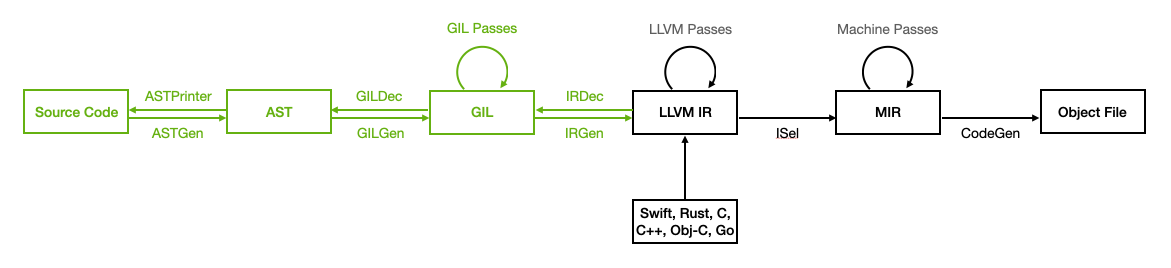
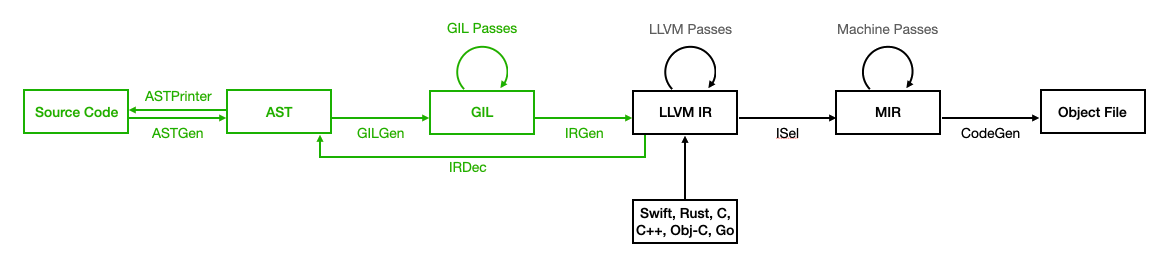
fix: compiler architecture now accurately reflects the current state of Glu

diff --git a/_refs/compiler_architecture.md b/_refs/compiler_architecture.md
@@ -5,11 +5,11 @@ category: The Architecture
 
 The Glu compiler is a multi-stage compiler that compiles Glu source code into an executable file. The compiler is written in C++ and uses the LLVM compiler infrastructure to generate machine code. The compiler consists of several stages, each of which performs a specific task in the compilation process.
 
-The particularity of the Glu compiler is that it is designed to be reversible. This means that the compiler can generate Glu source code from the LLVM IR representation of a program. This feature allows the compiler to perform optimizations on the LLVM IR representation of a program and then generate Glu source code from the optimized IR. This can be useful for debugging and understanding the behavior of the compiler. Most importantly, it allows the compiler to generate human-readable Glu source code from the optimized IR generated by any LLVM-based compiler, such as Clang, Rust, or Swift.
+The particularity of the Glu compiler is that it can import LLVM IR. This means that the compiler can generate a Glu interface from the LLVM IR representation of a program. 
 
 ## Compiler Stages
 
-The Glu compiler has multiple stages, each of which performs a specific task in the compilation process. Each stage also has a corresponding reverse stage that can go backwards in the compilation process. The stages are shown on this diagram:
+The Glu compiler has multiple stages, each of which performs a specific task in the compilation process. The stages are shown on this diagram:
 
 ![Glu Compiler Stages](/assets/img/compiler-stages.png)
 
@@ -29,29 +29,22 @@ The Glu compilation process consists of the following stages:
 
 The LLVM infrastructure is used to optimize and generate machine code from the LLVM IR representation of the program, leveraging the powerful optimization passes and code generation capabilities of LLVM.
 
-The Glu decompilation process is similar to the compilation process but in reverse:
- - **IRDec**: `LLVM IR -> AST`: The IRDec stage generates a GIL representation of the program from the LLVM IR representation.
- - **ASTPrinter**: `AST -> Glu Source Code`: The AST Code Printer stage pretty prints Glu source code from the AST representation of the program.
+The Glu import process allows importing foreign functions and types from different kinds of input files:
+ - **IRDec**: `LLVM IR -> AST`: The IRDec stage generates AST nodes for function declarations and types from the LLVM IR representation.
+ - **ClangImporter**: `C Header Files -> AST`: The ClangImporter stage uses Clang tooling to parse C header files and generate AST nodes for function declarations and types.
+ - **ASTPrinter**: `AST -> Glu Source Code`: The AST Code Printer stage pretty prints Glu source code from the AST representation of the program (-print-interface).
 
-The Glu compiler is designed to be modular and extensible, allowing developers to easily add optimization passes to the compilation process. Each stage implemented as a separate C++ library: This design allows developers to experiment with new optimizations and transformations without recompiling the entire compiler.
+The Glu compiler can also automatically call the appropriate compilers to import different supported languages, and link imported functions and types into the final executable during the compilation process. See [Supported File Formats](./supported_files) for more information on supported input formats.
 
-## Debug Information (Planned)
+The Glu compiler is designed to be modular and extensible, allowing developers to easily add optimization passes to the compilation process. Each stage implemented as a separate C++ library.
+
+## Debug Information
 
 The Glu compiler keeps track of debug information throughout the compilation process to provide accurate source-level debugging information in the generated machine code. The compiler generates debug information in the LLVM IR representation of the program, which is used by the LLVM infrastructure to generate debug information in the final machine code. Debug information includes source file names, line numbers, and variable names, allowing developers to debug their programs using debuggers such as LLDB.
 
 We believe that debugging is important, both without and with optimizations. Therefore, the Glu compiler generates debug information by default, even when optimizations are enabled. This allows developers to debug optimized code as accurately as possible.
 
-It is also possible to generate debug information for the Glu Intermediate Language (GIL) representation of the program, using `-ggil`. In that case, temporary GIL files are generated, and the debuggers will step through those files instead of the source files. This can be useful when debugging high-level optimizations that are performed on the GIL representation of the program.
-
-![Glu Compiler Stages diagram when using -ggil](/assets/img/compiler-stages-ggil.png)
-
-It is also possible to generate debug information for decompiled Glu source code, using `-gdec`, which can be a better experience when debugging optimized code. The compiler will go through all compilation stages, then decompile the optimized LLVM IR back to Glu source code, and generate debug information referencing the decompiled source code. This allows stepping through the decompiled source code in the debugger, providing a more natural debugging experience, though the code may not be exactly the same as the original source code.
-
-![Glu Compiler Stages diagram when using -gdec](/assets/img/compiler-stages-gdec.png)
-
-Finally, it is possible to disable debug information generation using `-g0`, which can reduce the size of the generated object files and make the compilation process faster. However, this is not recommended for development, as it makes debugging more difficult.
-
-Debug information such as variables and their types is very important in the decompilation process, as it allows the compiler to generate better Glu source code from the optimized LLVM IR representation of the program. Without debug information, the decompiled code would be less readable and harder to understand. Therefore, when importing LLVM bitcode generated by other compilers, it is recommended to enable generation of debug information in those compilers, to improve the quality of the decompiled code.
+Debug information such as variables and their types is very important in the importing process, as it allows the compiler to access all types and function names from the LLVM IR representation of the program. Without debug information, some types might not have their correct names, and struct content might not be accurate. Therefore, when importing LLVM bitcode generated by other compilers, it is highly recommended to enable generation of debug information in those compilers.
 
 ## Example Compilation
 
@@ -109,9 +102,9 @@ This will output the LLVM IR representation of the program in a textual format. 
 
 Note that more intermediate compilation stages are available, such as printing the AST before semantic analysis (`-print-astgen`), printing the GIL before optimizations (`-print-gilgen`), and printing GIL between optimization passes. More flags are available; see `gluc --help` for a full list.
 
-### Decompilation
+### Import Interface
 
-You can then decompile the LLVM IR back to an AST with function declarations only, using the `-print-ast` flag on the LLVM IR file:
+You can then transform the LLVM IR back to an AST with function declarations only, using the `-print-ast` flag on the LLVM IR file:
 
 ```bash
 gluc -print-ast main.ll
